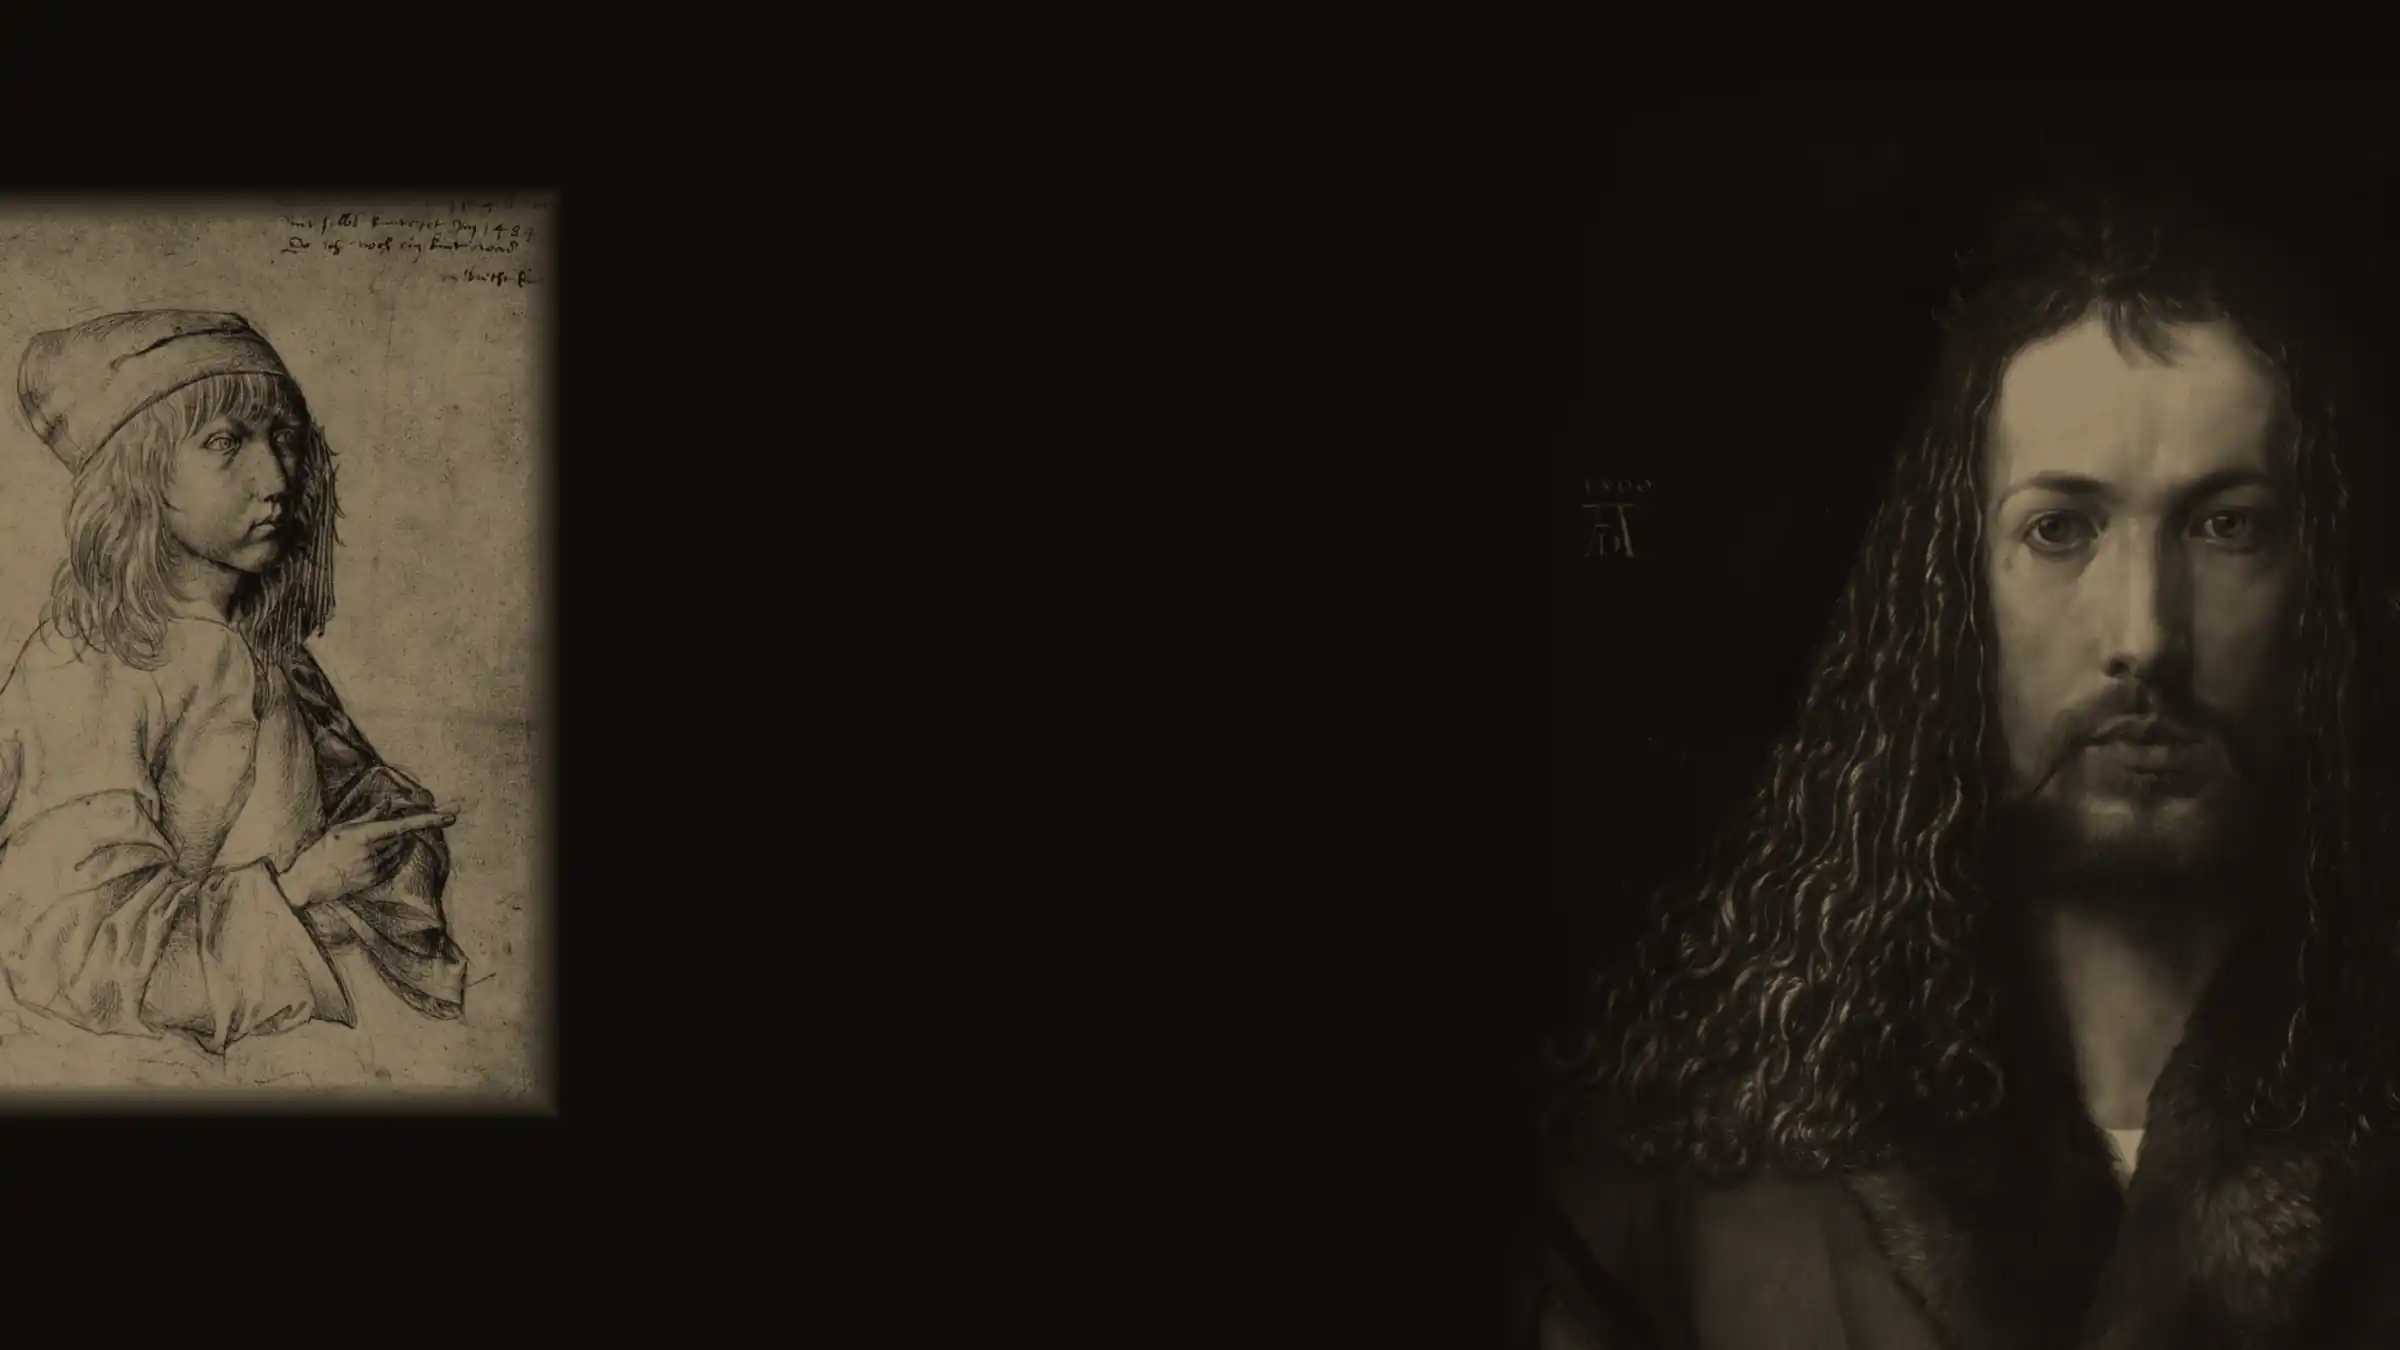
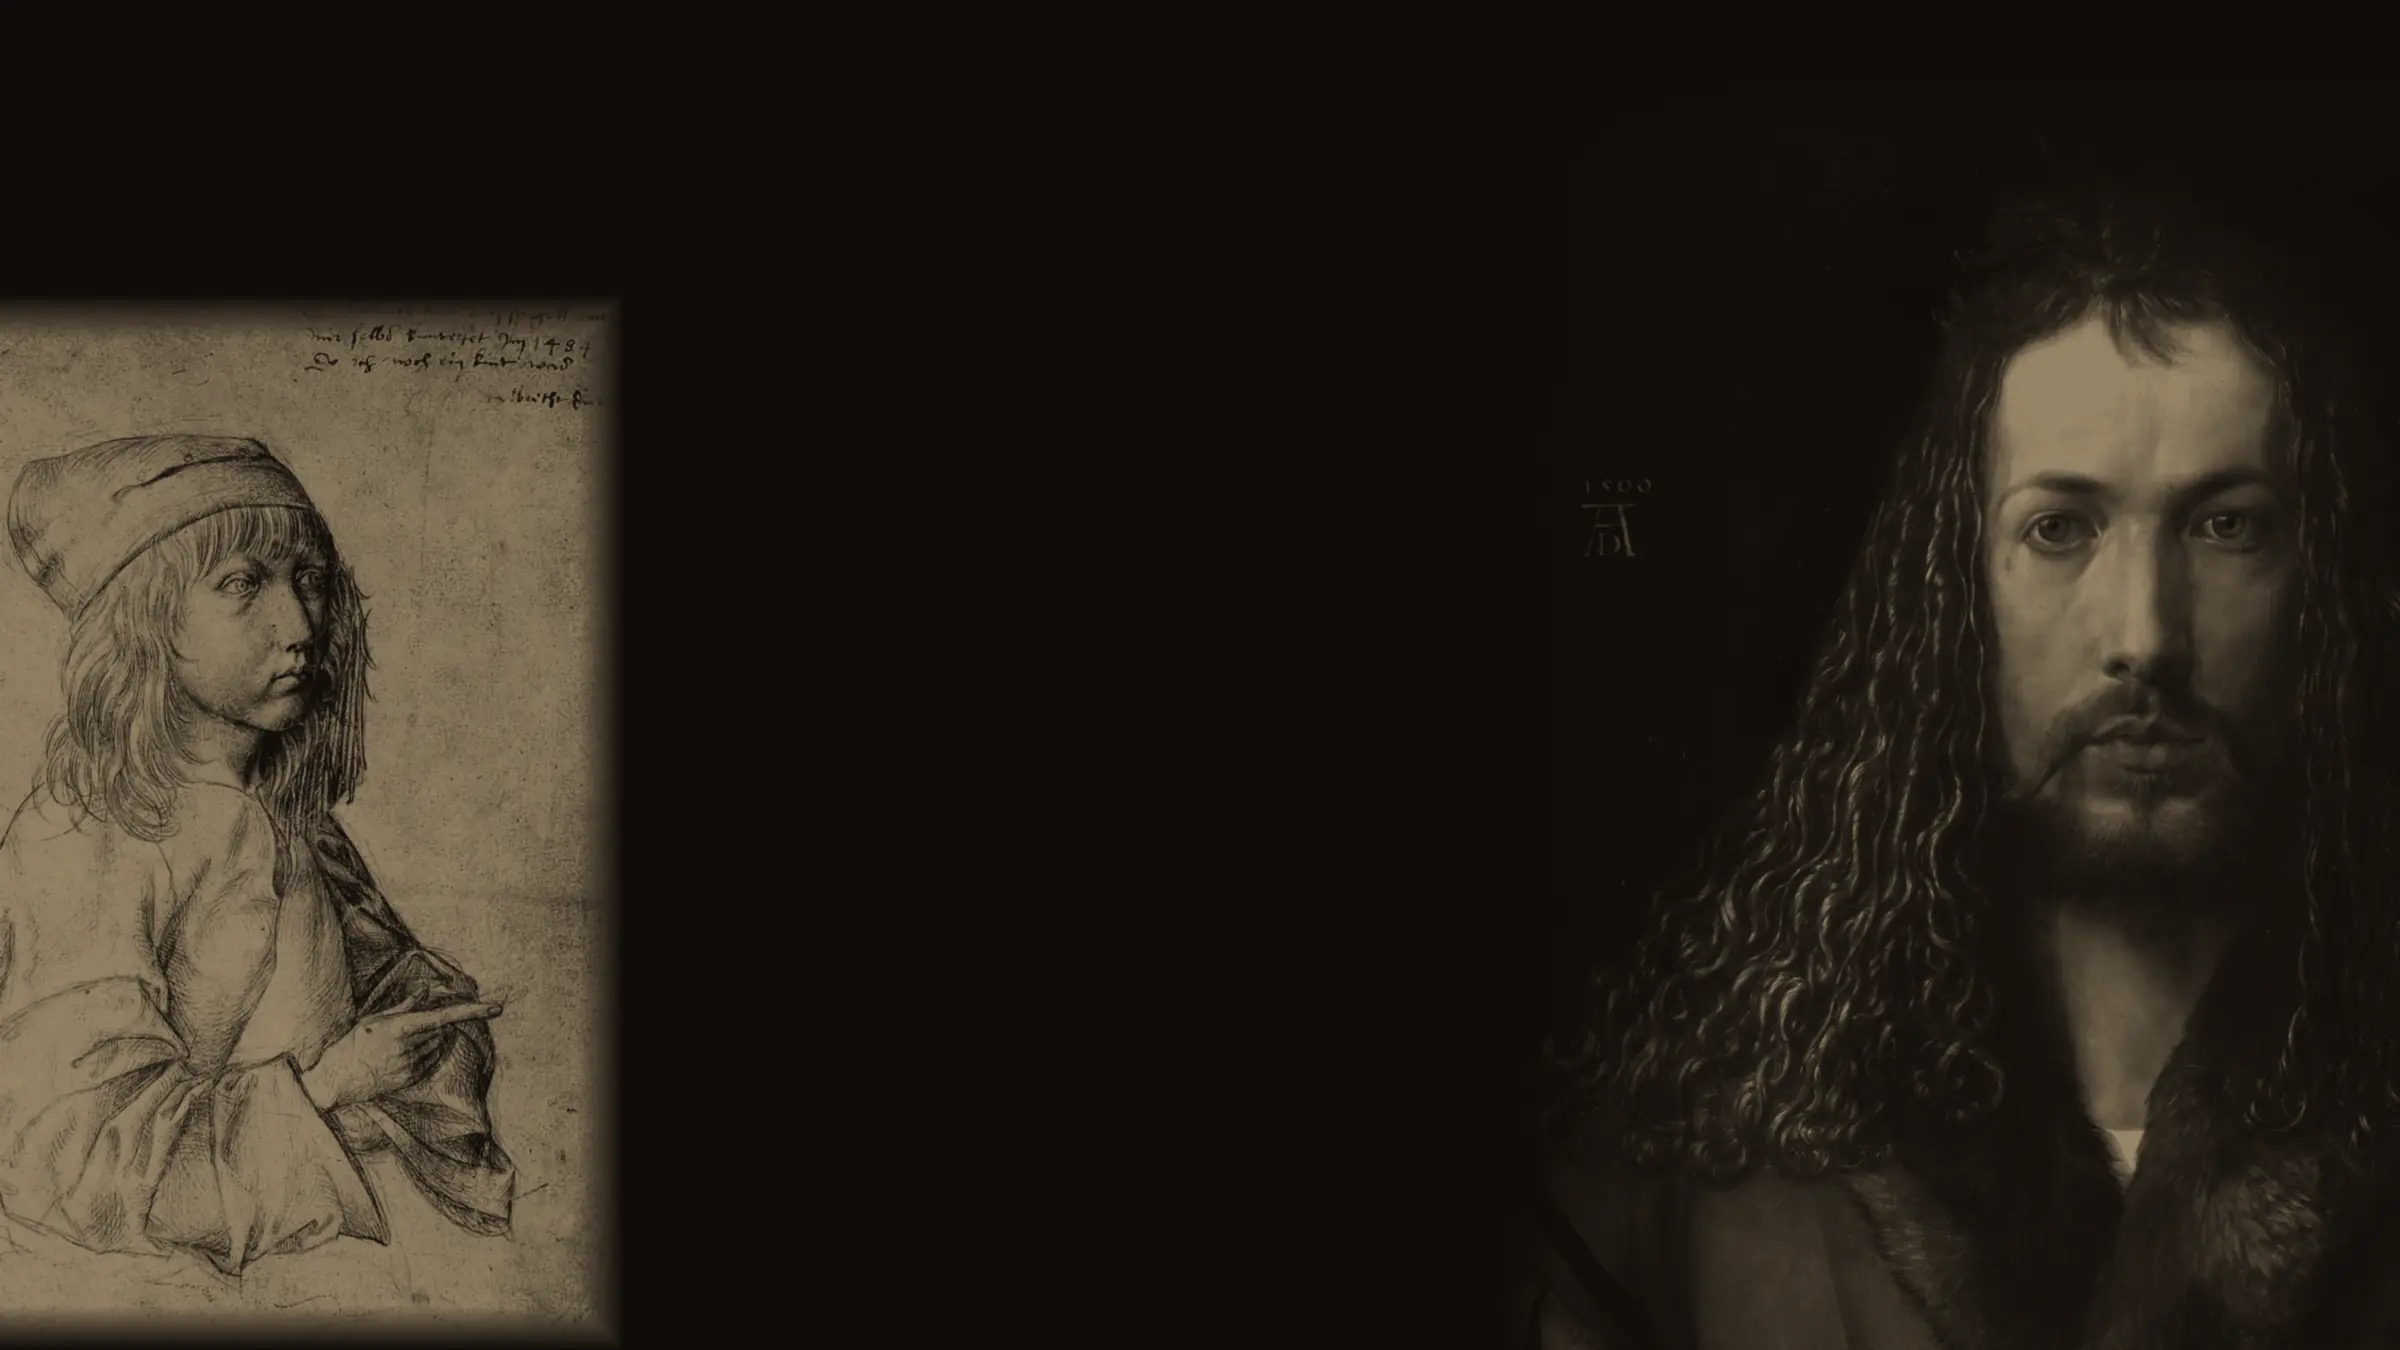
fix(art): Design r155 lows — You plate re-crop at q72, desk at 80% on phones, Jacob box, ATTRIBUTION
L1: You left panel ("you",.806,.360,1.28) at quality 72 (66,816 B, byte-identical to Design's proposed file); boy head box [8,435,380,735].
L2: phones (<=640px) draw the desk plate at 80% 35% so Solomon's fingertips are not cut at 375-430.
L3: Jacob head box [230,420,380,520].
L4: ATTRIBUTION: 900px bands line, You 1600 plate upscaled 1.10x from the 1453px scan, added to the upscale list.
page-craft.css trimmed two comments to stay under its 3 KB gzip budget (3,059 B).

Changed region(s): [[0.0, 0.1244, 0.2812, 0.9956]]

diff --git a/src/lib/board/art-two-sides.test.ts b/src/lib/board/art-two-sides.test.ts
@@ -49,7 +49,7 @@ const PLATES: Record<string, { left: Panel; right: Panel }> = {
     right: { artist: "Albrecht Dürer", work: "Erasmus of Rotterdam", box: [0.202, -0.075, 0.823, 0.6] },
   },
   "plate-you-A-2400.webp": {
-    left: { artist: "Albrecht Dürer", work: "Self-Portrait at Thirteen", box: [0.14, -0.199, 1.608, 1.246] },
+    left: { artist: "Albrecht Dürer", work: "Self-Portrait at Thirteen", box: [0.156, -0.28, 1.456, 1.0] },
     right: { artist: "Albrecht Dürer", work: "Self-Portrait, 1500", box: [-0.026, -0.037, 0.688, 0.689] },
   },
   "plate-desk-A-2400.webp": {
@@ -173,7 +173,7 @@ const HEADER_PX = 115; // the sticky header's height, measured in the real app a
 const HEADS: Record<string, { who: string; box: [number, number, number, number]; from: number }[]> = {
   "plate-messages-A-2400.webp": [{ who: "Erasmus", box: [2020, 210, 2150, 570], from: 1600 }],
   "plate-you-A-2400.webp": [
-    { who: "the boy at thirteen", box: [20, 260, 330, 580], from: 1600 },
+    { who: "the boy at thirteen", box: [8, 435, 380, 735], from: 1600 },
     { who: "Dürer at twenty-eight", box: [2020, 400, 2320, 880], from: 1600 },
   ],
   "plate-groups-A-2400.webp": [
@@ -184,7 +184,7 @@ const HEADS: Record<string, { who: string; box: [number, number, number, number]
     { who: "the woman in the turban", box: [130, 400, 230, 560], from: 1600 },
     { who: "the mother", box: [2050, 330, 2240, 520], from: 1600 },
   ],
-  "plate-week-A-2400.webp": [{ who: "Jacob", box: [400, 420, 520, 520], from: 1920 }],
+  "plate-week-A-2400.webp": [{ who: "Jacob", box: [230, 420, 380, 520], from: 1920 }],
 };
 
 const rootPx = (vw: number) => {

diff --git a/public/page-craft.css b/public/page-craft.css
@@ -30,8 +30,9 @@
   [data-section="messages"]{--pc-plate:url(/art/plate-messages-A-900.webp)}
   [data-section="profile"]{--pc-plate:url(/art/plate-you-A-900.webp)}
   [data-section="civic"]{--pc-plate:url(/art/plate-desk-A-900.webp)}
+  [data-section="civic"] [data-entered]>.plate-ground{background-position:80% 35%}
 }
-/* 1600px and wider: two sides, a different figure or work at each edge (Josh, Oct 29). 2400x1350, under 140 KB. */
+/* 1600px and wider: a different work or figure at each edge (Josh). 2400x1350. */
 @media (min-width:1600px){
   [data-section="week"]{--pc-plate:url(/art/plate-week-A-2400.webp)}
   [data-section="rooms"]{--pc-plate:url(/art/plate-rooms-A-2400.webp)}
@@ -48,7 +49,7 @@
 @media (min-width:1600px){.pc-wide{display:block}}
 [data-palette="parchment"],[data-palette="parchment"] [data-section]{--pc-gilt:#6f5420;--pc-rubric:#8e2f26;--pc-ink:#2a2117;--pc-solid:#ece2cc;--pc-t1:#fffaf0;--pc-t2:#f8f3e7;--pc-t3:#efe6d2}
 
-/* The plate (landing and sign-in keep their own rules in backgrounds.css and door.css) */
+/* The plate (the door keeps its own rules) */
 [data-entered]>.plate-ground{background:var(--pc-plate) center 35%/cover no-repeat;transform-origin:50% 40%}
 [data-entered]>.scrim{position:fixed;inset:0;z-index:0;pointer-events:none;background:var(--pc-scrim)}
 [data-palette="parchment"] [data-entered]>.scrim{background:var(--scrim)}

diff --git a/src/lib/board/page-craft.test.ts b/src/lib/board/page-craft.test.ts
@@ -239,3 +239,10 @@ test("the gilt rule under a heading has room below it (Design: margin-block .25r
   assert.match(rule[1], /margin-block:\.25rem \.75rem/);
   assert.doesNotMatch(rule[1], /(^|;)margin:/, "no shorthand margin to undo it");
 });
+
+test("on phones the desk plate sits at 80% so Solomon's fingertips stay on screen (Design r155 L2)", () => {
+  const phone = craft.match(/@media \(max-width:640px\)\{([\s\S]*?)\n\}/);
+  assert.ok(phone, "the phone block is in page-craft.css");
+  // (0,3,0) outranks the plate rule's background shorthand (0,2,0), wherever it sits.
+  assert.ok(phone[1].includes('[data-section="civic"] [data-entered]>.plate-ground{background-position:80% 35%}'));
+});

diff --git a/public/art/ATTRIBUTION.md b/public/art/ATTRIBUTION.md
@@ -7,13 +7,13 @@ Martin's *Creation of Light* appears on the landing page, the sign-in form, the 
 The files in this folder are the Design Critic's duotone WebPs (palette A, Ink & Bone,
 and palette B, Parchment & Lapis). Luminance is mapped from the ground colour to the
 text colour. Most are not upscaled past the source scan; a few 2400 panels are, by up to
-about 1.5× (Find left 1.38× and right 1.52×, the room's right 1.35×, the desk's right 1.25×),
+about 1.5× (Find left 1.38× and right 1.52×, the room's right 1.35×, the desk's right 1.25×, the You 1600 plate 1.10×),
 softened by the plates' light blur. CSS lives in
 `public/backgrounds.css` and is loaded as its own stylesheet.
 
 `dore-band-A.webp` and `dore-band-B.webp` are those same colour duotones, resized to
 1600×677 and re-encoded to about 160KB for the desktop week band. They are not
-grayscale. The 900px mobile bands and the margin plates are the original files.
+grayscale. The 900px mobile bands are the original files.
 `dore-og.jpg` is a 1200×630 JPEG of that crop, about 150KB or less, for the
 public gathering link preview. `dore-og.webp` is the same crop. No gathering
 text is drawn on either.
@@ -33,8 +33,8 @@ Light* (`martin-hero-A.webp` / `-B`, right half), the door's file; no new file.
 ## Signed-in plates (inner pages spec v3)
 
 Every signed-in page now has one full-bleed plate behind the whole viewport, under a scrim, the door's
-technique. The files are `plate-<key>-A.webp` (1600×1000, the You plate 1365×853 because its source is
-small) and `plate-<key>-A-900.webp` (900×1600, for phones up to 640px). Each was turned grey, mapped
+technique. The files are `plate-<key>-A.webp` (1600×1000; the You plate is upscaled 1.10× from the
+1453px scan) and `plate-<key>-A-900.webp` (900×1600, for phones up to 640px). Each was turned grey, mapped
 through a warm sepia LUT from `#100c09` to `#968466` with gamma 1.25, and lightly blurred, so they read
 as one family. Printed captions and borders are trimmed off the Doré pages. CSS lives in
 `public/page-craft.css`. Save-Data and reduced data drop the plate.
